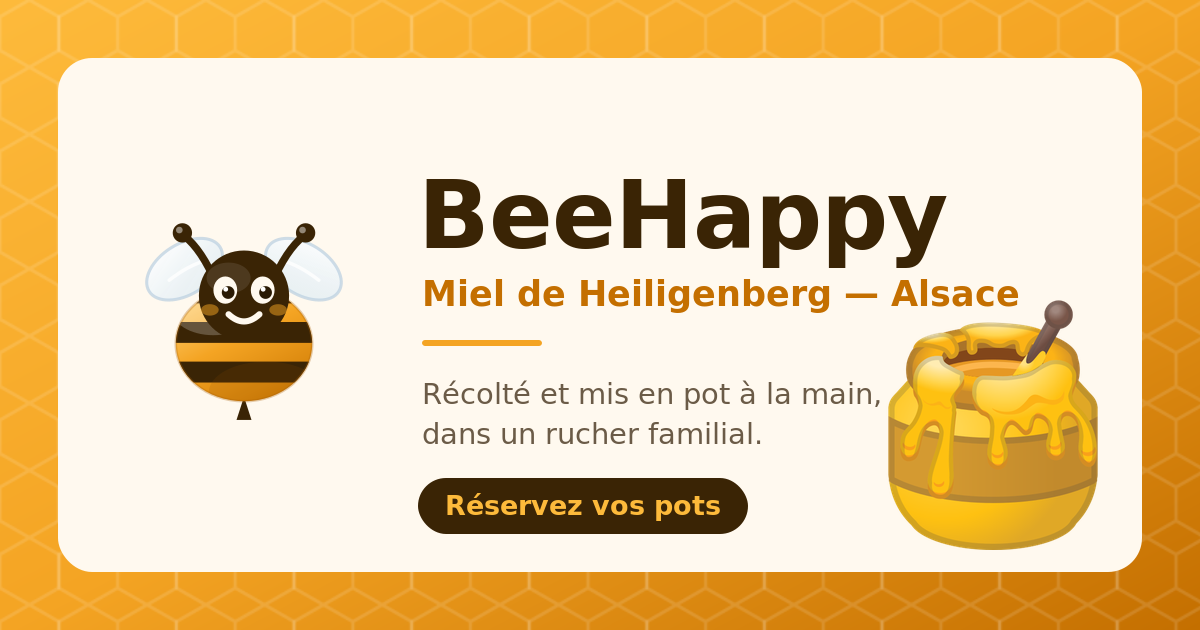
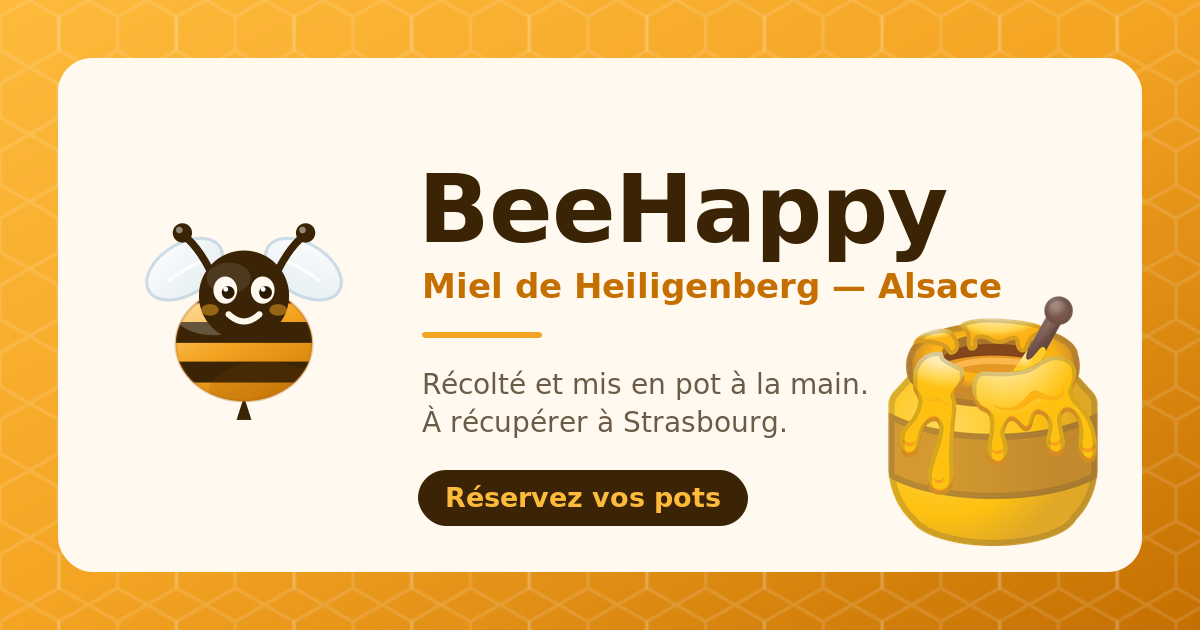
az

diff --git a/index.html b/index.html
@@ -3,34 +3,34 @@
 <head>
 <meta charset="utf-8">
 <meta name="viewport" content="width=device-width, initial-scale=1">
-<title>Miel de Heiligenberg — BeeHappy, apiculture familiale en Alsace</title>
-<meta name="description" content="Miel récolté et mis en pot à la main à Heiligenberg (67190), Bas-Rhin. Sapin, acacia, fleurs, châtaignier. Réservez vos pots, retrait ou livraison.">
+<title>Miel artisanal à Strasbourg — BeeHappy, rucher familial d'Alsace</title>
+<meta name="description" content="Miel d'Alsace récolté et mis en pot à la main, à retirer à Strasbourg. Sapin, acacia, fleurs, châtaignier. Réservez vos pots en ligne, règlement à la remise.">
 
 <link rel="canonical" href="https://beehappy.fun/">
 <meta name="robots" content="index, follow, max-image-preview:large">
 <meta name="author" content="C. Godmet">
 <meta name="theme-color" content="#F4A423">
 
-<!-- Reperage geographique -->
+<!-- Reperage geographique : le point de retrait -->
 <meta name="geo.region" content="FR-67">
-<meta name="geo.placename" content="Heiligenberg">
-<meta name="geo.position" content="48.5333;7.3667">
-<meta name="ICBM" content="48.5333, 7.3667">
+<meta name="geo.placename" content="Strasbourg">
+<meta name="geo.position" content="48.5734;7.7521">
+<meta name="ICBM" content="48.5734, 7.7521">
 
 <!-- Apercu au partage : WhatsApp, SMS, Facebook, Messenger -->
 <meta property="og:type"          content="website">
 <meta property="og:locale"        content="fr_FR">
 <meta property="og:site_name"     content="BeeHappy">
 <meta property="og:url"           content="https://beehappy.fun/">
-<meta property="og:title"         content="BeeHappy — Miel de Heiligenberg, Alsace">
+<meta property="og:title"         content="BeeHappy — Miel d'Alsace, à retirer à Strasbourg">
 <meta property="og:description"   content="Miel récolté et mis en pot à la main dans un rucher familial. Réservez vos pots, réglez à la remise.">
 <meta property="og:image"         content="https://beehappy.fun/apercu-partage.png">
 <meta property="og:image:width"   content="1200">
 <meta property="og:image:height"  content="630">
-<meta property="og:image:alt"     content="BeeHappy, miel de Heiligenberg en Alsace">
+<meta property="og:image:alt"     content="BeeHappy, miel artisanal d'Alsace">
 
 <meta name="twitter:card"        content="summary_large_image">
-<meta name="twitter:title"       content="BeeHappy — Miel de Heiligenberg, Alsace">
+<meta name="twitter:title"       content="BeeHappy — Miel d'Alsace, à retirer à Strasbourg">
 <meta name="twitter:description" content="Miel récolté et mis en pot à la main dans un rucher familial. Réservez vos pots, réglez à la remise.">
 <meta name="twitter:image"       content="https://beehappy.fun/apercu-partage.png">
 
@@ -145,16 +145,17 @@
   </div>
 
   <section class="accroche" style="border-left-color:var(--ambre)">
-    <h2 style="font-size:1.05rem;color:var(--brun);margin-bottom:6px">Un miel de Heiligenberg, dans le Bas-Rhin</h2>
+    <h2 style="font-size:1.05rem;color:var(--brun);margin-bottom:6px">Un miel de Heiligenberg, à récupérer à Strasbourg</h2>
     <p style="color:var(--gris);font-size:.94rem">
-      Nos ruches sont installées à <strong>Heiligenberg (67190)</strong>, entre Molsheim et la vallée de la Bruche,
-      au pied du Champ du Feu. Le miel est extrait, filtré et mis en pot à la main, sans mélange
-      ni transformation. Chaque récolte est différente selon la saison et la floraison.
+      Nos ruches sont installées à <strong>Heiligenberg</strong>, dans le Bas-Rhin, entre Molsheim
+      et la vallée de la Bruche. Le miel y est récolté, puis extrait, filtré et mis en pot à la main —
+      sans mélange ni transformation. Chaque récolte est différente selon la saison et la floraison.
     </p>
     <p style="color:var(--gris);font-size:.94rem;margin-top:6px">
-      Retrait sur place à Heiligenberg, remise en main propre dans les communes alentour
-      (Mutzig, Molsheim, Still, Dinsheim-sur-Bruche, Oberhaslach), ou envoi postal
-      partout en France.
+      La remise des pots se fait à <strong>Strasbourg</strong>, sur rendez-vous : on convient
+      ensemble d'un moment par téléphone. Possibilité également de remise en main propre
+      dans l'agglomération (Schiltigheim, Illkirch, Ostwald, Lingolsheim, Bischheim),
+      ou d'envoi postal partout en France.
     </p>
   </section>
 
@@ -201,7 +202,7 @@
       "@id": "https://beehappy.fun/#commerce",
       "name": "BeeHappy",
       "alternateName": "BeeHappy — Miel de Heiligenberg",
-      "description": "Production familiale de miel à Heiligenberg, dans le Bas-Rhin. Miel de sapin, acacia, fleurs et châtaignier, récolté et mis en pot à la main. Vente directe du producteur.",
+      "description": "Miel d'Alsace récolté à Heiligenberg (Bas-Rhin) et mis en pot à la main. Miel de sapin, acacia, fleurs et châtaignier. Vente directe du producteur, retrait à Strasbourg.",
       "url": "https://beehappy.fun/",
       "image": "https://beehappy.fun/apercu-partage.png",
       "logo": "https://beehappy.fun/apercu-partage.png",
@@ -211,21 +212,23 @@
       "paymentAccepted": "Espèces, Chèque",
       "address": {
         "@type": "PostalAddress",
-        "addressLocality": "Heiligenberg",
-        "postalCode": "67190",
+        "addressLocality": "Strasbourg",
+        "postalCode": "67000",
         "addressRegion": "Grand Est",
         "addressCountry": "FR"
       },
       "geo": {
         "@type": "GeoCoordinates",
-        "latitude": 48.5333,
-        "longitude": 7.3667
+        "latitude": 48.5734,
+        "longitude": 7.7521
       },
       "areaServed": [
+        { "@type": "City", "name": "Strasbourg" },
+        { "@type": "City", "name": "Schiltigheim" },
+        { "@type": "City", "name": "Illkirch-Graffenstaden" },
+        { "@type": "City", "name": "Lingolsheim" },
         { "@type": "AdministrativeArea", "name": "Bas-Rhin" },
-        { "@type": "City", "name": "Heiligenberg" },
-        { "@type": "City", "name": "Molsheim" },
-        { "@type": "City", "name": "Mutzig" },
+        { "@type": "AdministrativeArea", "name": "Alsace" },
         { "@type": "Country", "name": "France" }
       ],
       "knowsLanguage": "fr-FR",
@@ -236,13 +239,36 @@
           "@type": "Product",
           "name": "Miel de Heiligenberg",
           "category": "Miel",
-          "description": "Miel de production familiale : sapin, acacia, toutes fleurs, châtaignier."
+          "description": "Miel de production familiale récolté à Heiligenberg, dans le Bas-Rhin : sapin, acacia, toutes fleurs, châtaignier.",
+          "countryOfOrigin": { "@type": "Country", "name": "France" },
+          "productionDate": "Récolte annuelle",
+          "manufacturer": {
+            "@type": "Organization",
+            "name": "Rucher familial de Heiligenberg",
+            "location": {
+              "@type": "Place",
+              "name": "Heiligenberg",
+              "address": {
+                "@type": "PostalAddress",
+                "addressLocality": "Heiligenberg",
+                "postalCode": "67190",
+                "addressRegion": "Grand Est",
+                "addressCountry": "FR"
+              },
+              "geo": {
+                "@type": "GeoCoordinates",
+                "latitude": 48.5333,
+                "longitude": 7.3667
+              }
+            }
+          }
         },
         "priceCurrency": "EUR",
         "availableDeliveryMethod": [
           "https://schema.org/OnSitePickup",
           "https://schema.org/ParcelService"
-        ]
+        ],
+        "areaServed": { "@type": "Country", "name": "France" }
       }
     },
     {
@@ -259,10 +285,18 @@
       "mainEntity": [
         {
           "@type": "Question",
-          "name": "Comment commander du miel à Heiligenberg ?",
+          "name": "Comment commander du miel d'Alsace à Strasbourg ?",
           "acceptedAnswer": {
             "@type": "Answer",
-            "text": "Choisissez vos pots sur le site et laissez votre nom et votre téléphone. Nous vous rappelons pour convenir du moment de la remise."
+            "text": "Choisissez vos pots sur le site et laissez votre nom et votre téléphone. Nous vous rappelons pour convenir du moment de la remise, à Strasbourg."
+          }
+        },
+        {
+          "@type": "Question",
+          "name": "D'où vient le miel ?",
+          "acceptedAnswer": {
+            "@type": "Answer",
+            "text": "Le miel est récolté dans notre rucher familial à Heiligenberg, dans le Bas-Rhin, entre Molsheim et la vallée de la Bruche. Il est extrait, filtré et mis en pot à la main, sans mélange ni transformation. La remise des pots se fait ensuite à Strasbourg."
           }
         },
         {
@@ -278,7 +312,7 @@
           "name": "Livrez-vous le miel ?",
           "acceptedAnswer": {
             "@type": "Answer",
-            "text": "Trois possibilités : le retrait sur place à Heiligenberg, la remise en main propre dans les communes alentour, ou l'envoi postal partout en France."
+            "text": "Trois possibilités : le retrait à Strasbourg sur rendez-vous, la remise en main propre dans l'agglomération strasbourgeoise, ou l'envoi postal partout en France."
           }
         },
         {

diff --git a/config.js b/config.js
@@ -12,7 +12,7 @@ const CONFIG = {
 
   // --- 2. Coordonnees affichees sur le site ----------------
   NOM_COMMERCE: "BeeHappy",
-  SOUS_TITRE: "Miel de Heilligenberg — Alsace",
+  SOUS_TITRE: "Miel de Heiligenberg — Alsace",
   PRODUCTEUR: "C. Godmet",
   TELEPHONE: "06.81.38.03.15",
   EMAIL: "cgodmet@yahoo.fr",                       // laisse vide si tu n'en veux pas
@@ -21,9 +21,9 @@ const CONFIG = {
   // --- 3. Options de livraison -----------------------------
   FRAIS_LIVRAISON_LOCALE: 0,       // en euros, 0 = gratuit
   FRAIS_ENVOI_POSTAL: 5.00,        // en euros
-  ZONE_LIVRAISON: "Heilligenberg et communes alentour (environ 15 km)",
+  ZONE_LIVRAISON: "Strasbourg et communes de l'agglomération",
 
   // --- 4. Textes libres ------------------------------------
-  MESSAGE_ACCUEIL: "Miel récolté et mis en pot à la main, dans notre rucher en Alsace.",
+  MESSAGE_ACCUEIL: "Miel récolté et mis en pot à la main, dans notre rucher familial de Heiligenberg, en Alsace.",
   MESSAGE_PAIEMENT: "Le paiement se fait au moment de la remise du miel, en espèces ou par chèque. Aucun paiement en ligne n'est proposé actuellement."
 };
